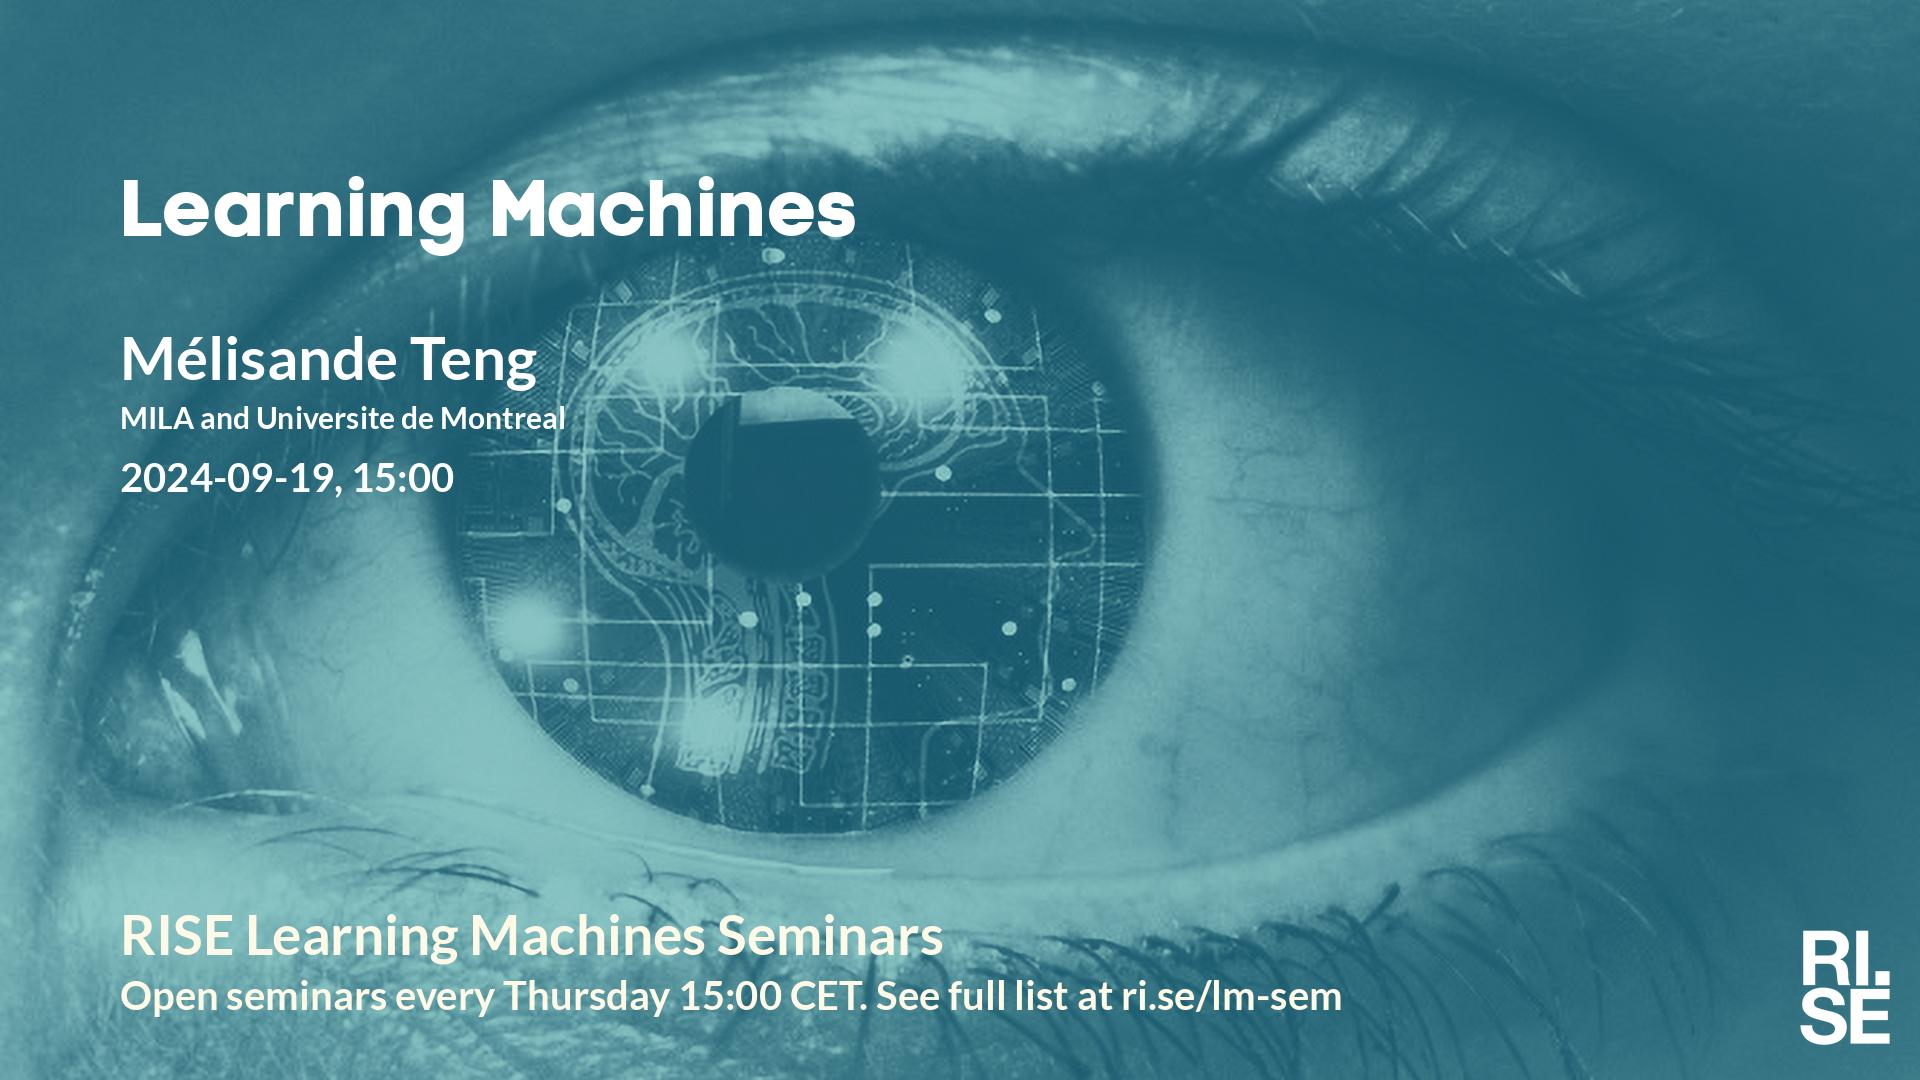
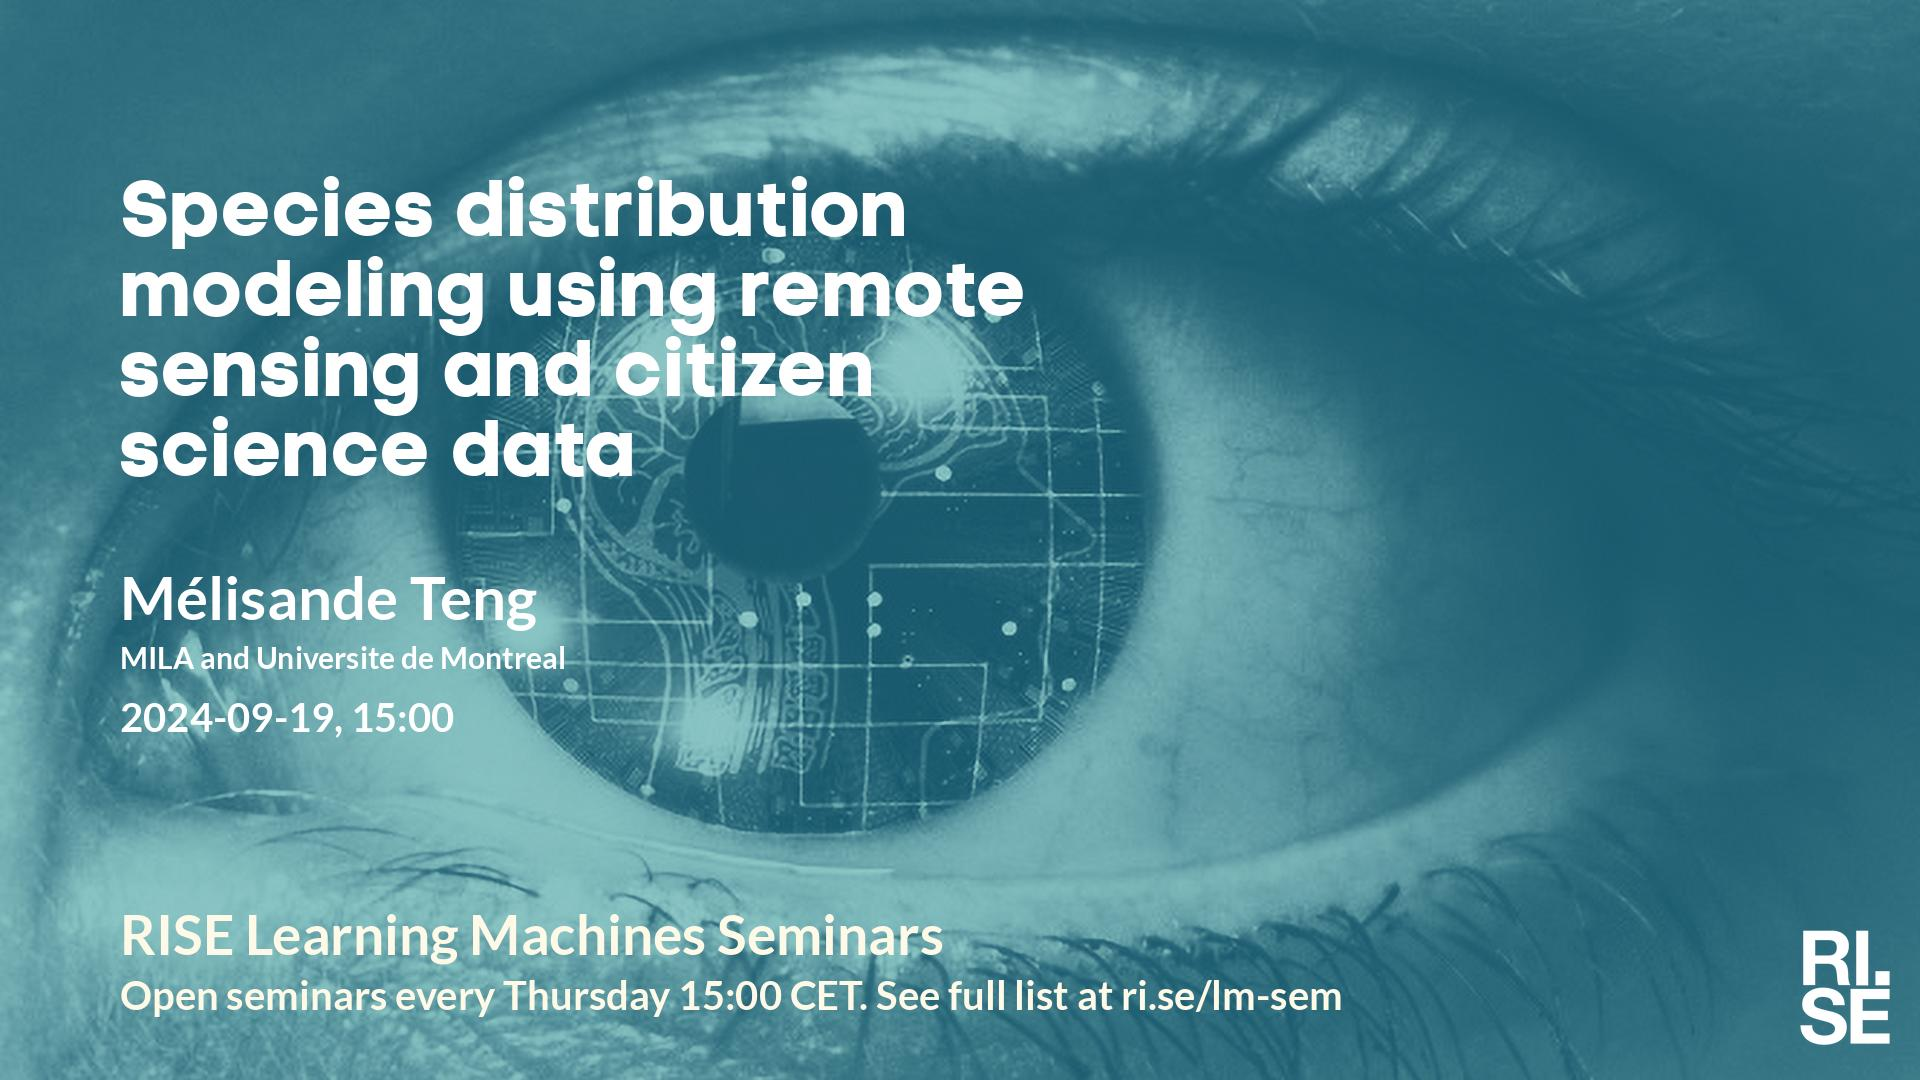
Updated plan on web site.

Changed region(s): [[0.0625, 0.1528, 0.5312, 0.4583], [0.0625, 0.5194, 0.2812, 0.7028]]

diff --git a/lm/index.md b/lm/index.md
@@ -5,13 +5,13 @@ metatags: "<meta name=\"robots\" content=\"noindex,nofollow\" />"
 <style type="text/css" scoped>
 td, th {border: 1px solid #ccc; padding: 0.6em;}
 table {border-collapse: collapse;}
-</style># Learning Machines Plan 2024-09-05
+</style># Learning Machines Plan 2024-09-11
 
 | date | speaker                                   | photo | shareable | meeting backdrop | youtube thumbnail | <a title="Speaker, Title, Abstract, Bio, Photo. Strikethrough means we don't have it yet.">comment</a>        |
 | ---- | ----------------------------------------- | ----- | ----- | ----- | ----- | -------------- |
 |  2024-09-05  |  [Smita Chakraborty, RISE](2024-09-05.md)  |  [photo](photo-smita-chakraborty.jpg)  |  [social media ](social-media-smita-chakraborty.jpg)  |  [meeting backdrop ](meeting-backdrop-smita-chakraborty.jpg)  |  [youtube thumbnail ](youtube-thumbnail-smita-chakraborty.jpg)  |  STABP  |
 | <span style="color:red"> 2024-09-12 </span> | <span style="color:red"> CANCELLED </span> | <span style="color:red">  </span> | <span style="color:red">  </span> | <span style="color:red">  </span> | <span style="color:red">  </span> | <span style="color:red"> CANCELLED </span> |
-|  2024-09-19  |  [Mélisande Teng, MILA and Universite de Montreal](2024-09-19.md)  |    |  [social media ](social-media-melisande-teng.jpg)  |  [meeting backdrop ](meeting-backdrop-melisande-teng.jpg)  |  [youtube thumbnail ](youtube-thumbnail-melisande-teng.jpg)  |  S~~TABP~~  |
+|  2024-09-19  |  [Mélisande Teng, MILA and Universite de Montreal](2024-09-19.md)  |    |  [social media ](social-media-melisande-teng.jpg)  |  [meeting backdrop ](meeting-backdrop-melisande-teng.jpg)  |  [youtube thumbnail ](youtube-thumbnail-melisande-teng.jpg)  |  STAB~~P~~  |
 |  2024-09-26  |  [Charlie Fieseler, University of Vienna](2024-09-26.md)  |    |  [social media ](social-media-charlie-fieseler.jpg)  |  [meeting backdrop ](meeting-backdrop-charlie-fieseler.jpg)  |  [youtube thumbnail ](youtube-thumbnail-charlie-fieseler.jpg)  |  S~~TABP~~  |
 |  2024-10-03  |  [Jakob Ambsdorf, University of Copenhagen](2024-10-03.md)  |    |  [social media ](social-media-jakob-ambsdorf.jpg)  |  [meeting backdrop ](meeting-backdrop-jakob-ambsdorf.jpg)  |  [youtube thumbnail ](youtube-thumbnail-jakob-ambsdorf.jpg)  |  S~~TABP~~  |
 | <span style="color:purple"> 2024-10-10 </span> | <span style="color:purple"> *Up for grabs!!!* </span> | <span style="color:purple">  </span> | <span style="color:purple">  </span> | <span style="color:purple">  </span> | <span style="color:purple">  </span> | <span style="color:purple"> ~~STABP~~ </span> |

diff --git a/lm/2024-09-19.md b/lm/2024-09-19.md
@@ -4,13 +4,15 @@ metatags: "<meta name=\"robots\" content=\"noindex,nofollow\" />"
 ---
 Welcome to this week's Learning Machines seminar.
 
-**Title:** N/A
+**Title:** Species distribution modeling using remote sensing and citizen science data
 
 **Speaker:** Mélisande Teng, MILA and Universite de Montreal
 
-**Abstract:** N/A
+**Abstract:** Biodiversity is declining at an unprecedented rate, impacting ecosystem services and human wellbeing. A first step towards guiding biodiversity conservation policies is understanding the current state of biodiversity, and in particular, through mapping species to their habitat. However, there remain large knowledge gaps about species distribution, due to the amount of effort and expertise required for traditional field monitoring. Furthermore, traditional methods in ecology for species distribution modeling (SDM) are often unable to account for complex relationships between species and characteristics of the environment and generally focus either on narrow geographical areas or narrow sets of species, while species interact with each other. With the rise of citizen science, which offers rich and abundant data in comparison with field surveys, opening new possibilities to scientists, machine learning appears as a promising tool to model jointly species distributions. 
 
-**About the speaker:** N/A
+In this talk, I will focus on approaches to tackle the challenge of joint species distribution modeling at scale with machine learning. I will present SatBird, a dataset and benchmark for bird species distribution modeling using remote sensing and citizen science data and introduce methods to leverage partial information about species present in a given location to predict occurrence patterns of other species.  I will also share some personal learnings and reflections on applied research in ML for biodiversity conservation.
+
+**About the speaker:** Mélisande Teng is a PhD candidate in Computer Science at Université de Montréal / Mila - Quebec AI Institute and her research focuses on applications of machine learning and remote sensing for biodiversity monitoring, in particular, bird and butterfly species distribution modeling and carbon storage quantification in tree plantations. She aims at building bridges between the machine learning and ecology communities and the general public. She holds a MSc in Mathematics, Vision and Learning (MVA) from ENS Paris-Saclay and a Msc in Management and Social Entrepreneurship from ESSEC Business School.
 
 **Location:** This is an online seminar. Connect using Zoom.
 
